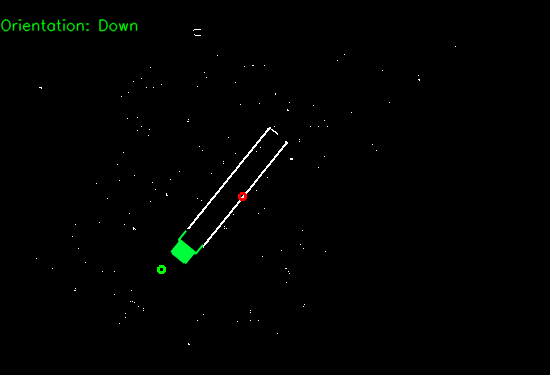
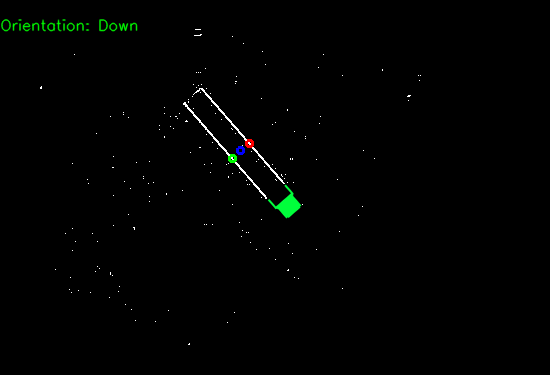
Added grabberpoint func

diff --git a/GlassSegmentV1/LineSearchLib.py b/GlassSegmentV1/LineSearchLib.py
@@ -319,11 +319,13 @@ def LineExtend(glassSides,lineLength=100):
            
     return glassSides
 
-def grabberPoint(glassSides,lineLength=40):
+def grabberPoint(glassSides,lineLength=23):
     # ! Format of sides:
     # * line-pair = |slope1 = a rad | x1start | y1start | x1end | y1end | hyp | slope2 = b rad | x2start | y2start | x2end | y2end | hyp |
-    grabPoint=np.empty([4])
+    grabPoint=np.empty([6])
     line_perp = np.empty([2])
+    x1 = np.empty([2])
+    y1 = np.empty([2])
     grabPoint[0] = (glassSides[1] + glassSides[3]) / 2 # l1x
     grabPoint[1] = (glassSides[2] + glassSides[4]) / 2 # l1y
     line = np.polyfit([glassSides[1], glassSides[3]],[glassSides[2], glassSides[4]], 1)
@@ -331,16 +333,29 @@ def grabberPoint(glassSides,lineLength=40):
     line_perp[1] = grabPoint[1] - 1 * line_perp[0] * grabPoint[0]
     #grabPoint[2] = (glassSides[7] + glassSides[9]) / 2 # l2x
     #grabPoint[3] = (glassSides[8] + glassSides[10]) / 2# l2y
-    
+    m = line_perp[0]
+    b = line_perp[1]
+    x0 = grabPoint[0]
+    y0 = grabPoint[1]
+    d = lineLength
+    x1[0] = 1/(m**2+1)*(-b*m+m*y0+math.sqrt(d**2*m**2-m**2*x0**2-2*b*m*x0+2*m*x0*y0-b**2+2*b*y0+d**2-y0**2)+x0)
+    x1[1] = -(b*m-m*y0+(d**2*m**2-m**2*x0**2-2*b*m*x0+2*m*x0*y0-b**2+2*b*y0+d**2-y0**2)**(1/2)-x0)/(m**2+1)
+    y1 = m * x1 + b
+    grabPoint[2] = x1[0]
+    grabPoint[3] = y1[0]
+    grabPoint[4] = (grabPoint[0] + grabPoint[2]) / 2
+    grabPoint[5] = (grabPoint[1] + grabPoint[3]) / 2
+    grabPointAngle = math.degrees(math.atan(m))
+    return grabPoint, grabPointAngle
     # Create orthogonal point to grabber point
-    slopes = np.array([glassSides[0], glassSides[6]])
-    slope_offset = math.degrees(math.atan(np.average(slopes)))
-    slope_offset = 180 - abs(slope_offset)
-    if slope_offset < 0:
-        slope_offset += 45
+#    slopes = np.array([glassSides[0], glassSides[6]])
+    #slope_offset = math.degrees(math.atan(np.average(slopes)))
+    #slope_offset = 180 - abs(slope_offset)
+    #if slope_offset < 0:
+    #    slope_offset += 45
     
-    if np.average(slopes) > 0:
-        slope_offset = -slope_offset
+    #if np.average(slopes) > 0:
+    #    slope_offset = -slope_offset
     
     
     '''

diff --git a/GlassSegmentV1/GlassSegmentV1.py b/GlassSegmentV1/GlassSegmentV1.py
@@ -41,7 +41,7 @@ cv2.destroyAllWindows()
 # * Threshold @ 32
 start_time = time.time()
 
-img = cv2.imread('opencv_frame_2.png')
+img = cv2.imread('opencv_frame_6.png')
 template = cv2.imread('vialTop.png', 0) # * Load template
 
 img_cropped = img[60:60+505, 325:325+740]
@@ -65,14 +65,17 @@ edges_hough = ls.HoughLinesSearch(img_binary)
 
 houghLocation = np.ndarray.flatten(edges_hough)
 final = ls.templatematch(img_binary, template, houghLocation)
-# TODO Rename grabbaroo to something nicer
-grabbaroo, grabangle = ls.grabberPoint(edges_hough)
-grabbaroo = np.around(grabbaroo)
-grabbaroo = grabbaroo.astype(int)
-cv2.circle(final, (grabbaroo[0], grabbaroo[1]), 3, color = (0,255,0), thickness=2)
-cv2.circle(final, (grabbaroo[2], grabbaroo[3]), 3, color = (0,0,255), thickness=2)
-cv2.imwrite('Test.png', final)
+cv2.imwrite('Bla.png',final)
+# TODO Rename grabPoints to something nicer
+grabPoints, grabAngle = ls.grabberPoint(houghLocation)
+grabPoints = np.around(grabPoints)
+grabPoints = grabPoints.astype(int)
+cv2.circle(final, (grabPoints[0], grabPoints[1]), 3, color = (0,255,0), thickness=2)
+cv2.circle(final, (grabPoints[2], grabPoints[3]), 3, color = (0,0,255), thickness=2)
+cv2.circle(final, (grabPoints[4], grabPoints[5]), 3, color = (255,0,0), thickness=2)
 print("--- %s seconds ---" % (time.time() - start_time))
+
+cv2.imwrite('Test.png', final)
 
 cv2.imshow('Detection', final)
 cv2.waitKey(0)
